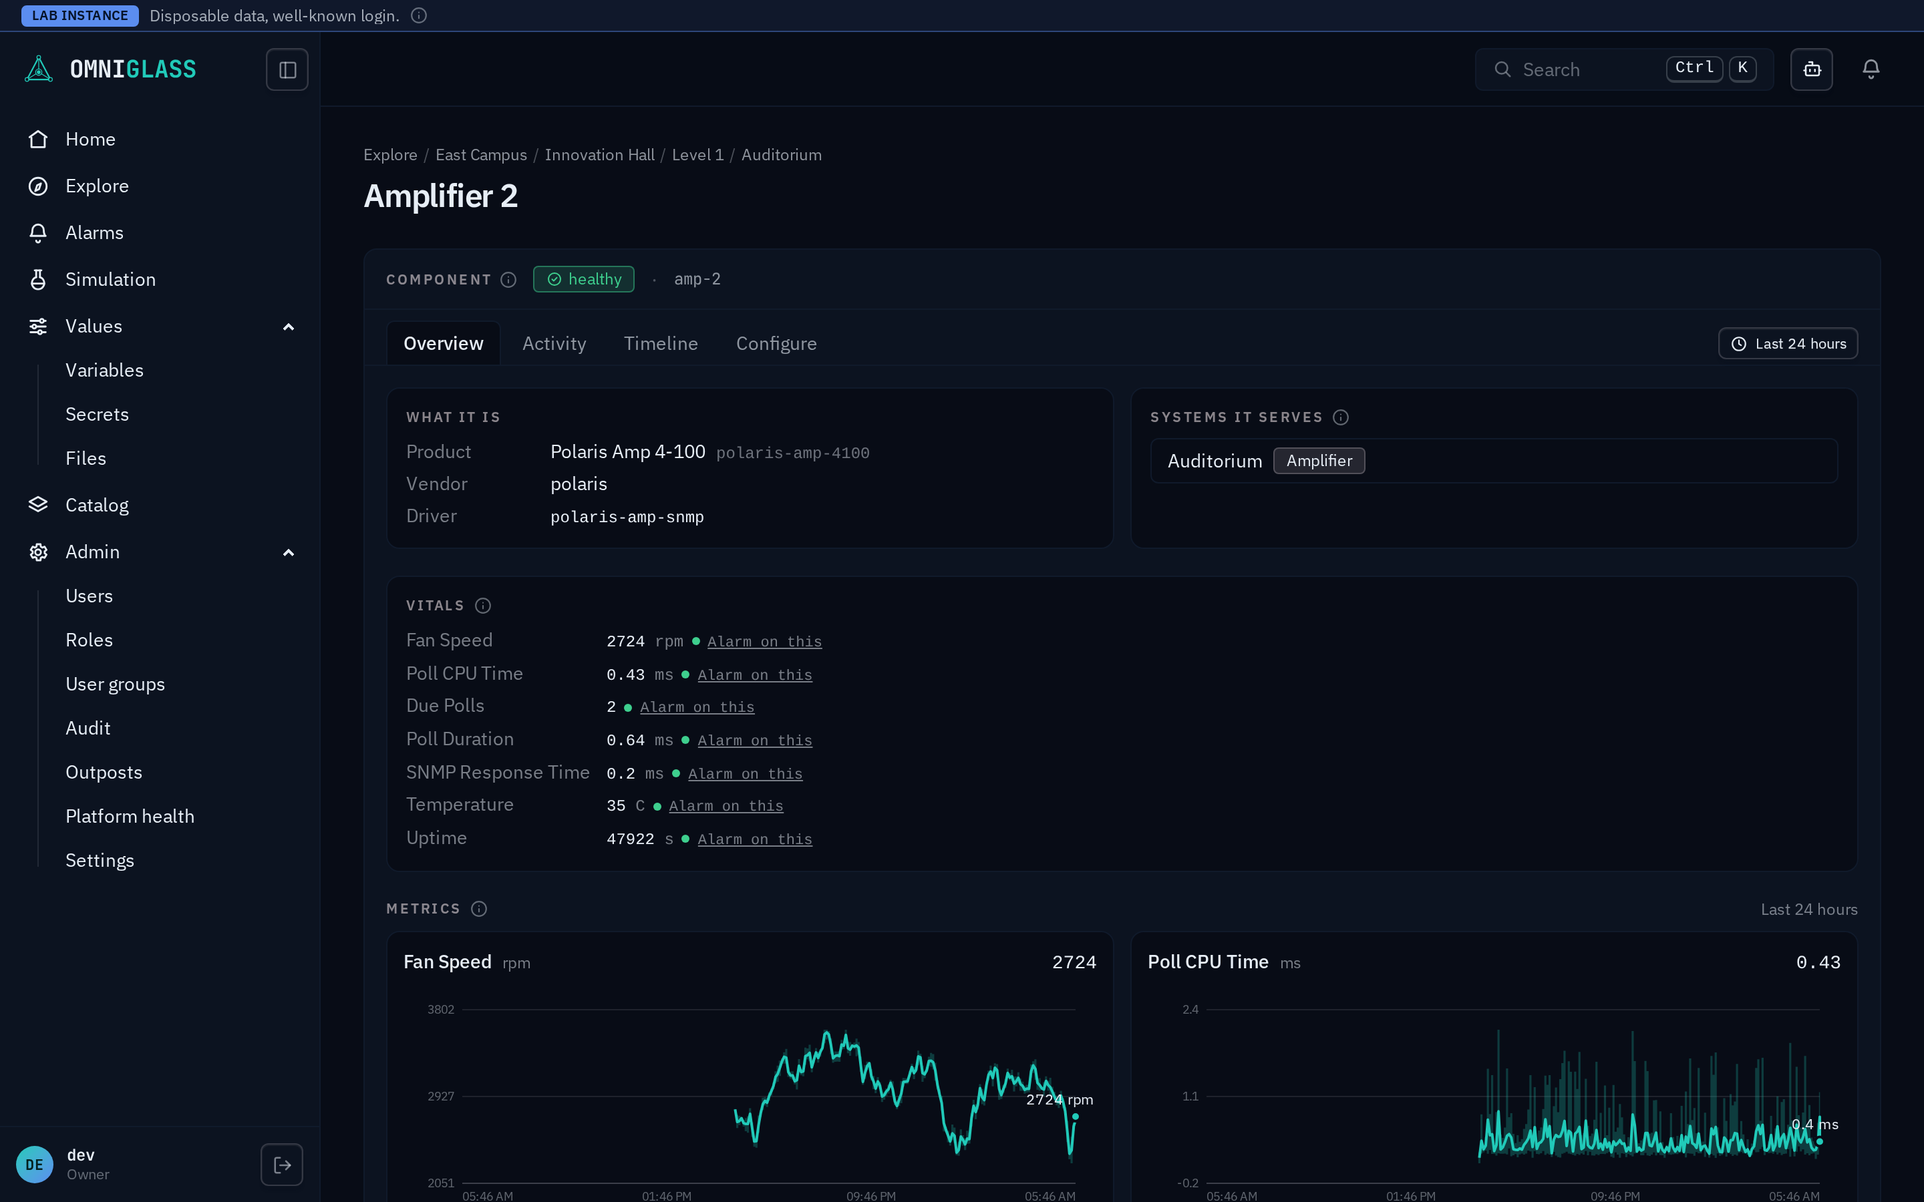
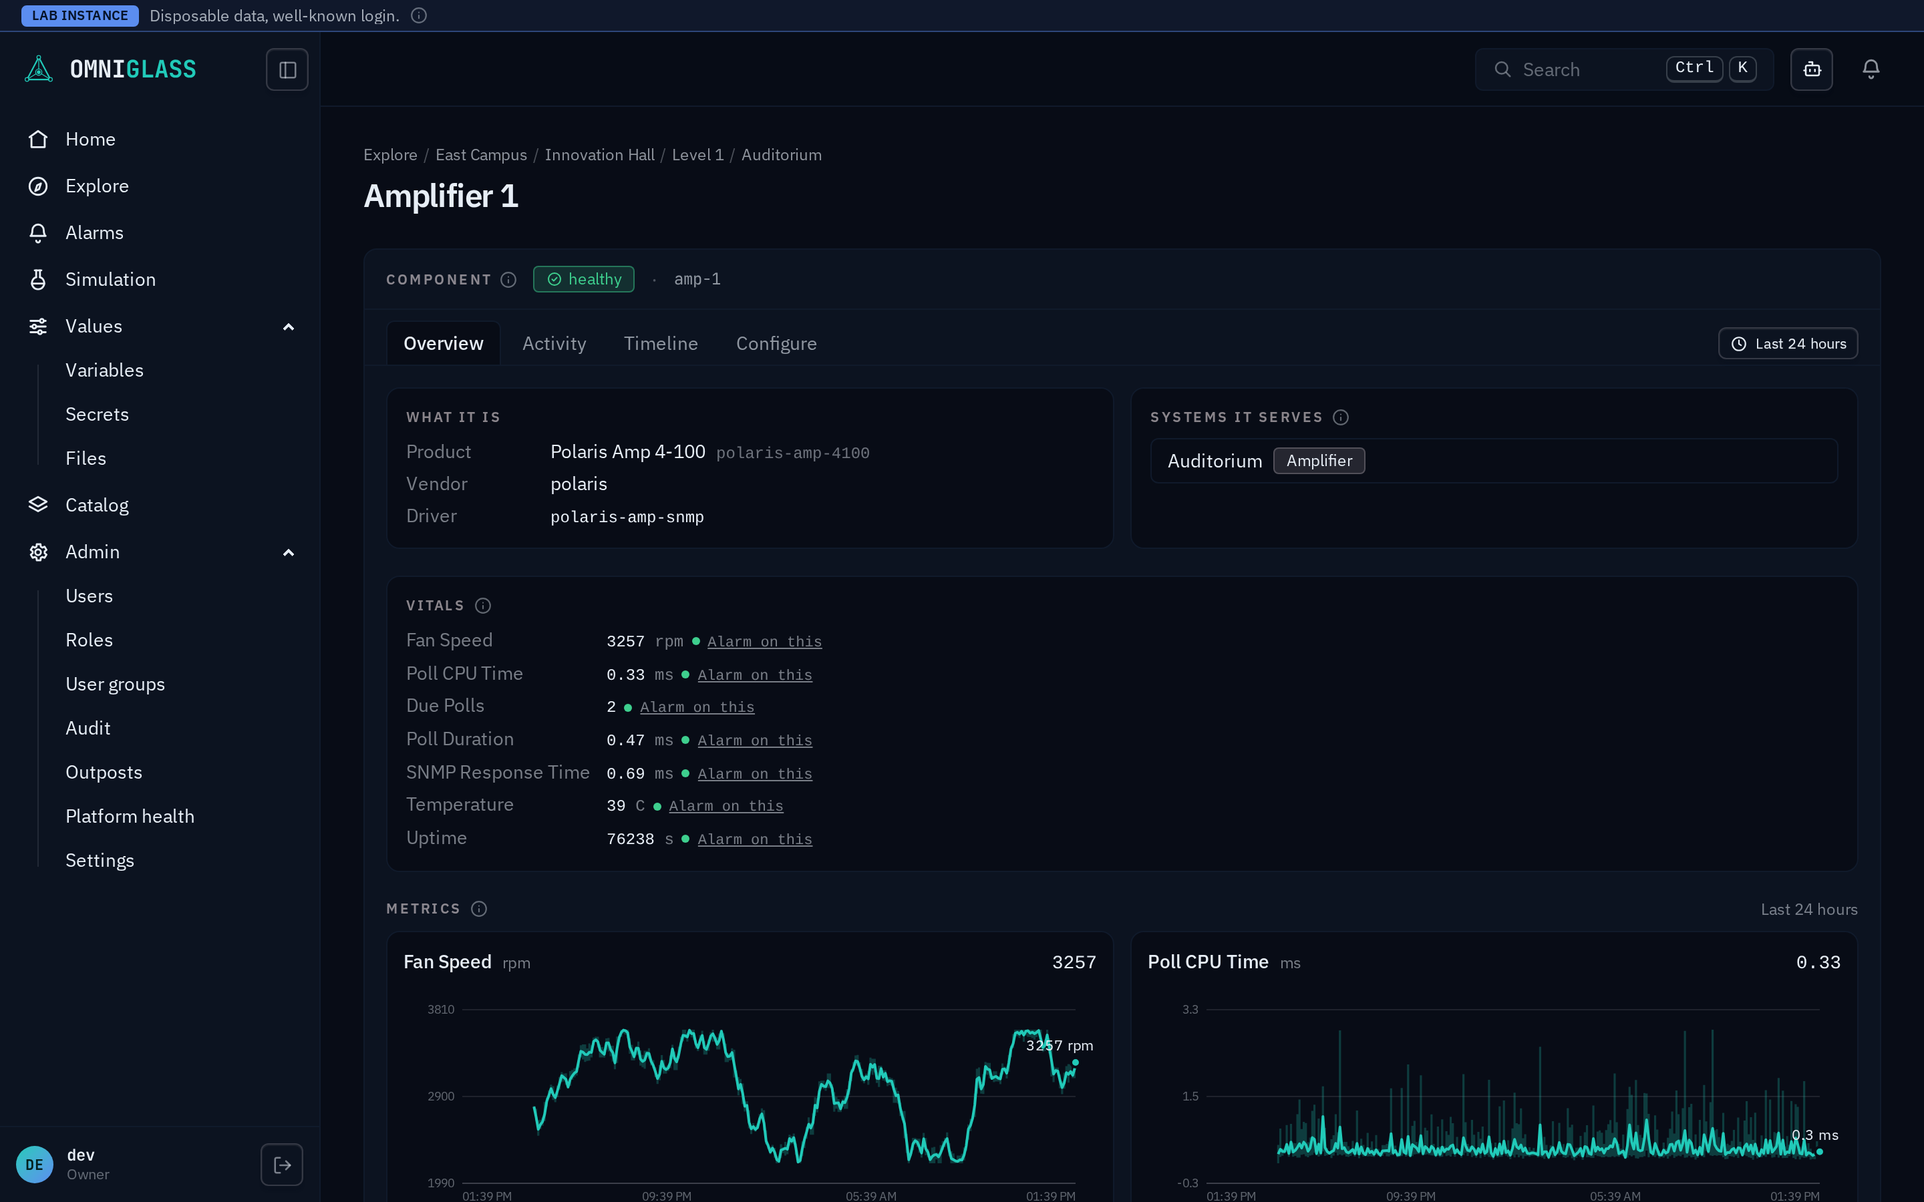
Move the detail-page breadcrumb into the one-row top bar

diff --git a/web/src/components/TopBar.tsx b/web/src/components/TopBar.tsx
@@ -1,7 +1,11 @@
 import type { JSX } from "solid-js";
 import { Show } from "solid-js";
 import { hostPlatform, shortcutModifier, shortcutHint } from "../lib/platform";
-import { Bot, Search } from "./icons";
+import { A } from "@solidjs/router";
+import { For } from "solid-js";
+import { collapseTrail, type Crumb } from "../lib/breadcrumb";
+import { Bot, MoreHorizontal, Search } from "./icons";
+import Popover from "./ui/Popover";
 import Button from "./Button";
 import InboxIndicator from "./InboxIndicator";
 
@@ -10,7 +14,42 @@ import InboxIndicator from "./InboxIndicator";
 // command-palette trigger (a global jump, distinct from a page's own filter),
 // omnibot's panel for a person who may run it (#1167), and the inbox bell with
 // its unread count.
-export default function TopBar(props: { section: string; title?: string | JSX.Element; hint?: string; onOpenPalette: () => void; onOpenOmnibot?: () => void }) {
+function TrailLink(props: { crumb: Crumb }) {
+  return (
+    <Show when={props.crumb.href} fallback={<span title={props.crumb.title ?? props.crumb.label}>{props.crumb.label}</span>}>
+      {(href) => (
+        <A href={href()} title={props.crumb.title ?? props.crumb.label} class="hover:text-base-content">
+          {props.crumb.label}
+        </A>
+      )}
+    </Show>
+  );
+}
+
+// A detail page's trail: every crumb a link, the middle ones folded into an
+// ellipsis menu when the path would crowd the title and the controls.
+function Trail(props: { crumbs: Crumb[] }) {
+  const parts = () => collapseTrail(props.crumbs);
+  const sep = () => <span class="flex-none text-base-content/30">/</span>;
+  return (
+    <nav aria-label="Breadcrumb" data-testid="breadcrumb" class="eyebrow flex min-w-0 flex-none items-baseline gap-1.5 text-base-content/70">
+      <For each={parts().head}>{(c) => <><TrailLink crumb={c} />{sep()}</>}</For>
+      <Show when={parts().hidden.length > 0}>
+        <Popover class="btn btn-quiet btn-xs btn-square self-center" aria-label="Show hidden path" title="Show hidden path" placement="bottom-start" contentClass="menu z-50 w-56 rounded-box border border-base-300 bg-base-100 p-1.5 shadow-2xl focus:outline-none" content={
+          <ul data-testid="trail-menu" class="flex flex-col">
+            <For each={parts().hidden}>{(c) => <li><TrailLink crumb={c} /></li>}</For>
+          </ul>
+        }>
+          <MoreHorizontal size={14} />
+        </Popover>
+        {sep()}
+      </Show>
+      <For each={parts().tail}>{(c) => <><TrailLink crumb={c} />{sep()}</>}</For>
+    </nav>
+  );
+}
+
+export default function TopBar(props: { section: string; title?: string | JSX.Element; hint?: string; trail?: Crumb[]; onOpenPalette: () => void; onOpenOmnibot?: () => void }) {
   // Label the palette shortcut with the host-native modifier (⌘ on mac, Ctrl else).
   const mod = shortcutModifier(hostPlatform());
   const hint = shortcutHint(hostPlatform(), "K");
@@ -18,8 +57,10 @@ export default function TopBar(props: { section: string; title?: string | JSX.El
     <header class="navbar sticky top-0 z-20 min-h-14 gap-3 border-b border-base-300 bg-base-100/80 px-6 backdrop-blur">
       <div data-testid="page-header" class="flex min-w-0 flex-col justify-center py-1">
         <div class="flex min-w-0 items-baseline gap-2 whitespace-nowrap">
-          <Show when={props.section}>
+          <Show when={props.trail?.length} fallback={<Show when={props.section}>
             <span class="eyebrow flex-none text-base-content/70">{props.section.replaceAll(" · ", " / ")} /</span>
+          </Show>}>
+            <Trail crumbs={props.trail!} />
           </Show>
           <h1 class="truncate text-lg font-semibold leading-tight tracking-tight">{props.title}</h1>
         </div>

diff --git a/web/src/components/Page.tsx b/web/src/components/Page.tsx
@@ -2,11 +2,11 @@ import type { JSX } from "solid-js";
 import { createEffect, createRenderEffect, onCleanup, Show } from "solid-js";
 import { namePage, setPageHeader } from "../lib/handover";
 import { navByPath } from "../lib/nav";
+import type { Crumb } from "../lib/breadcrumb";
 
 // Page scaffold: its title (string or element) and hint go to the top bar, the
-// page's one header row; an optional breadcrumb slot and right-aligned actions,
-// then the page body, stacked with the
-// density gap. Inventory pages built on TreeList drop the H1 (the top bar
+// page's one header row, with the trail above a detail page's title; optional
+// right-aligned actions, then the page body, stacked with the density gap. Inventory pages built on TreeList drop the H1 (the top bar
 // already labels the page) and pass their own header in children. A detail
 // page passes its entity's name or address, which omnibot is handed as the
 // page in place of the uuid its route holds (#2162).
@@ -21,7 +21,8 @@ export default function Page(props: {
   title?: string | JSX.Element;
   name?: string;
   subtitle?: string;
-  breadcrumb?: JSX.Element;
+  // A detail page's path (each crumb a link), read by the top bar before the h1.
+  trail?: Crumb[];
   actions?: JSX.Element;
   children: JSX.Element;
 }) {
@@ -31,17 +32,12 @@ export default function Page(props: {
   createEffect(() => namePage(props.name));
   onCleanup(() => namePage(undefined));
   // The top bar is the page header (#2575): the title and hint go there.
-  createRenderEffect(() => setPageHeader({ title: title(), hint: subtitle() }));
+  createRenderEffect(() => setPageHeader({ title: title(), hint: subtitle(), trail: props.trail }));
   onCleanup(() => setPageHeader(undefined));
   return (
     <section class="og-stack flex flex-col" classList={{ "h-full min-h-0": props.fill }}>
-      <Show when={props.breadcrumb || props.actions}>
-        <div class="flex flex-wrap items-center justify-between gap-4">
-          <div class="min-w-0 min-h-[18px]">{props.breadcrumb}</div>
-          <Show when={props.actions}>
-            <div class="flex flex-none items-center gap-2">{props.actions}</div>
-          </Show>
-        </div>
+      <Show when={props.actions}>
+        <div class="flex flex-wrap items-center justify-end gap-2">{props.actions}</div>
       </Show>
       {props.children}
     </section>

diff --git a/web/src/components/TopBar.test.tsx b/web/src/components/TopBar.test.tsx
@@ -1,5 +1,5 @@
 import { describe, it, expect, afterEach, beforeEach, vi } from "vitest";
-import { render, screen, fireEvent, cleanup } from "@solidjs/testing-library";
+import { render, screen, fireEvent, cleanup, within } from "@solidjs/testing-library";
 import { Router, Route } from "@solidjs/router";
 import { QueryClient, QueryClientProvider } from "@tanstack/solid-query";
 import TopBar from "./TopBar";
@@ -38,5 +38,34 @@ describe("the top bar's omnibot button", () => {
   it("is not there for someone who may not run omnibot", () => {
     bar();
     expect(screen.queryByRole("button", { name: "Ask omnibot" })).toBeNull();
+  });
+});
+
+describe("TopBar trail (#2575)", () => {
+  const crumbs = (n: number) => Array.from({ length: n }, (_, i) => ({ key: `c${i}`, label: `Place number ${i}`, href: `/locations/c${i}` }));
+  const mount = (n: number) =>
+    render(() => (
+      <QueryClientProvider client={new QueryClient({ defaultOptions: { queries: { retry: false } } })}>
+        <Router>
+          <Route path="*" component={() => <TopBar section="" title="Display 1" trail={crumbs(n)} onOpenPalette={() => {}} />} />
+        </Router>
+      </QueryClientProvider>
+    ));
+
+  it("shows a short trail whole, each crumb a link, before the one h1", () => {
+    mount(2);
+    const trail = screen.getByTestId("breadcrumb");
+    expect(within(trail).getAllByRole("link").map((a) => a.textContent)).toEqual(["Place number 0", "Place number 1"]);
+    expect(screen.queryByRole("button", { name: "Show hidden path" })).toBeNull();
+    expect(screen.getByRole("heading", { level: 1 }).textContent).toBe("Display 1");
+  });
+
+  it("collapses the middle of a long trail to an ellipsis menu that lists them as links", async () => {
+    mount(6);
+    const trail = screen.getByTestId("breadcrumb");
+    expect(within(trail).getAllByRole("link").map((a) => a.textContent)).toEqual(["Place number 0", "Place number 5"]);
+    fireEvent.click(screen.getByRole("button", { name: "Show hidden path" }));
+    const menu = await screen.findByTestId("trail-menu");
+    expect(within(menu).getAllByRole("link").map((a) => a.textContent)).toEqual(["Place number 1", "Place number 2", "Place number 3", "Place number 4"]);
   });
 });

diff --git a/web/src/pages/ComponentLeaf.test.tsx b/web/src/pages/ComponentLeaf.test.tsx
@@ -3,6 +3,7 @@ import { cleanup, fireEvent, render, screen, waitFor, within } from "@solidjs/te
 import { Router, Route } from "@solidjs/router";
 import { QueryClient, QueryClientProvider, focusManager } from "@tanstack/solid-query";
 import Components from "./Components";
+import { withTopBar } from "../lib/testheader";
 import { FLEET_VIEW_KEY, type FleetView } from "../lib/fleet";
 import { COMPONENTS_KEY, type Component } from "../lib/components";
 import { componentSystemsKey } from "../lib/members";
@@ -118,7 +119,7 @@ function mount(path = `/web/components/${uuidFor("cf-c-bar")}`, memberships?: un
   return render(() => (
     <QueryClientProvider client={qc}>
       <Router base="/web">
-        <Route path="/components/:id" component={Components} />
+        <Route path="/components/:id" component={withTopBar(Components)} />
         <Route path="/explore" component={() => <div data-testid="fleet-page" />} />
       </Router>
     </QueryClientProvider>
@@ -148,6 +149,21 @@ describe("the component leaf", () => {
     expect(within(trail).queryByText("Boardroom A")).toBeNull();
     expect(within(trail).queryByText("Video Bar 1")).toBeNull();
     expect(pageHeader()?.title).toBe("Video Bar 1");
+  });
+
+  // The one-row header (#2575): the path rides the top bar before the entity's
+  // label, the page body spends no row on it.
+  it("renders the location trail inside the top bar, the label as the one h1, no breadcrumb row in the body", () => {
+    mount();
+    const bar = document.querySelector("header")!;
+    const trail = within(bar).getByTestId("breadcrumb");
+    expect(within(trail).getByRole("link", { name: "Headquarters" })).toBeTruthy();
+    const h1s = screen.getAllByRole("heading", { level: 1 });
+    expect(h1s).toHaveLength(1);
+    expect(h1s[0].textContent).toBe("Video Bar 1");
+    expect(bar.contains(h1s[0])).toBe(true);
+    expect(screen.getAllByTestId("breadcrumb")).toHaveLength(1);
+    expect(document.querySelector("section")!.querySelector('[data-testid="breadcrumb"]')).toBeNull();
   });
 
   it("links Explore back to this component's row in the outline", async () => {

diff --git a/web/src/pages/LocationZoom.test.tsx b/web/src/pages/LocationZoom.test.tsx
@@ -3,6 +3,7 @@ import { render, screen, fireEvent, within, cleanup, waitFor } from "@solidjs/te
 import { A, Router, Route } from "@solidjs/router";
 import { QueryClient, QueryClientProvider } from "@tanstack/solid-query";
 import Locations from "./Locations";
+import { withTopBar } from "../lib/testheader";
 import { FLEET_VIEW_KEY, type FleetView } from "../lib/fleet";
 import { locationHealthKey, systemHealthKey, type FleetHealth } from "../lib/health";
 import { LOCATION_TYPES_KEY, type LocationType } from "../lib/location_types";
@@ -157,7 +158,7 @@ function mount(path = `/web/locations/${uuidFor("lz-hq")}`, lateTypes = false) {
   const r = render(() => (
     <QueryClientProvider client={qc}>
       <Router base="/web">
-        <Route path="/locations/:id" component={Locations} />
+        <Route path="/locations/:id" component={withTopBar(Locations)} />
         <Route path="/explore" component={() => <div data-testid="fleet-page" />} />
         <Route path="/start" component={() => <A data-testid="configure-link" href={`/locations/${uuidFor("lz-room")}?tab=configure`}>Configure location</A>} />
         <Route path="/systems/:id" component={() => <div data-testid="system-page" />} />
@@ -447,7 +448,7 @@ describe("ambiguous name addresses (#853)", () => {
     render(() => (
       <QueryClientProvider client={qc}>
         <Router base="/web">
-          <Route path="/locations/:id" component={Locations} />
+          <Route path="/locations/:id" component={withTopBar(Locations)} />
           <Route path="/explore" component={() => <div data-testid="fleet-page" />} />
         </Router>
       </QueryClientProvider>

diff --git a/web/src/lib/breadcrumb.test.ts b/web/src/lib/breadcrumb.test.ts
@@ -1,5 +1,5 @@
 import { describe, expect, it } from "vitest";
-import { crumbLayout } from "./breadcrumb";
+import { collapseTrail, crumbLayout, type Crumb } from "./breadcrumb";
 
 // The ellipsis rule as arithmetic: the last two crumbs never shrink, every
 // earlier one may ellipsise down to a 26px stub. Pure, so the rule is pinned
@@ -33,5 +33,18 @@ describe("crumbLayout", () => {
 
   it("zero crumbs is an empty layout, not a crash", () => {
     expect(crumbLayout(0)).toEqual([]);
+  });
+});
+
+describe("collapseTrail", () => {
+  const c = (label: string): Crumb => ({ key: label, label });
+  it("keeps a trail that fits whole", () => {
+    expect(collapseTrail([c("HQ"), c("Floor 2")]).hidden).toEqual([]);
+  });
+  it("folds the middle of a long trail, keeping the first and the last", () => {
+    const r = collapseTrail([c("Explore"), c("Headquarters campus"), c("Floor 2 west wing"), c("Room 201 huddle"), c("Rack")]);
+    expect(r.head.map((x) => x.label)).toEqual(["Explore"]);
+    expect(r.hidden.map((x) => x.label)).toEqual(["Headquarters campus", "Floor 2 west wing", "Room 201 huddle"]);
+    expect(r.tail.map((x) => x.label)).toEqual(["Rack"]);
   });
 });

diff --git a/web/src/pages/Subscriptions.test.tsx b/web/src/pages/Subscriptions.test.tsx
@@ -3,6 +3,7 @@ import { render, screen, waitFor, fireEvent, within } from "@solidjs/testing-lib
 import { Router, Route } from "@solidjs/router";
 import { QueryClient, QueryClientProvider } from "@tanstack/solid-query";
 import Subscriptions from "./Subscriptions";
+import { pageHeader } from "../lib/handover";
 import { ME_KEY, type Me } from "../lib/auth";
 import { SUBSCRIPTIONS_KEY, type RuleMatch, type Subscription } from "../lib/subscriptions";
 import { severityLevelsKey } from "../lib/severity";
@@ -239,10 +240,10 @@ describe("Subscriptions", () => {
     expect(await screen.findAllByTestId("sub-row")).toHaveLength(1);
   });
 
-  it("leads back to the profile from its breadcrumb", async () => {
+  it("hands the top bar a trail leading back to the profile", async () => {
     stubFetch(refuse);
     mount({ rules: [] });
-    fireEvent.click(await screen.findByRole("link", { name: "Profile" }));
-    expect(await screen.findByTestId("profile-page")).toBeTruthy();
+    await screen.findByTestId("subs-denied").catch(() => null);
+    expect(pageHeader()?.trail).toEqual([{ key: "profile", label: "Profile", href: "/profile" }]);
   });
 });

diff --git a/web/src/pages/SystemZoom.test.tsx b/web/src/pages/SystemZoom.test.tsx
@@ -3,6 +3,7 @@ import { cleanup, fireEvent, render, screen, waitFor, within } from "@solidjs/te
 import { Router, Route, useLocation } from "@solidjs/router";
 import { QueryClient, QueryClientProvider, focusManager } from "@tanstack/solid-query";
 import Systems from "./Systems";
+import { withTopBar } from "../lib/testheader";
 import { FLEET_VIEW_KEY, type FleetView } from "../lib/fleet";
 import { SYSTEM_HEALTH_PREFIX, systemHealthKey, type FleetHealth } from "../lib/health";
 import { systemSlotsKey } from "../lib/system_slots";
@@ -148,7 +149,7 @@ function mount(path = `/web/systems/${uuidFor("szp-sys")}`, healthOverride: Flee
 
     <QueryClientProvider client={qc}>
       <Router base="/web">
-        <Route path="/systems/:id" component={Systems} />
+        <Route path="/systems/:id" component={withTopBar(Systems)} />
         <Route path="/locations/:id" component={() => <div data-testid="location-page" />} />
         <Route path="/explore" component={() => <div data-testid="fleet-page" />} />
         <Route

diff --git a/web/src/lib/breadcrumb.ts b/web/src/lib/breadcrumb.ts
@@ -23,3 +23,15 @@ export function crumbLayout(count: number): { flex: string; minWidth: string }[]
     i >= count - 2 ? { flex: "none", minWidth: "auto" } : { flex: "0 1 auto", minWidth: "26px" },
   );
 }
+
+// collapseTrail decides which crumbs of the top bar's trail stay visible beside
+// the title and the controls (#2575): a trail whose labels fit the budget shows
+// whole; a longer one keeps the first crumb (where Back up lands) and the last
+// (the parent) and folds every crumb between into an ellipsis menu. Pure, so
+// the rule is pinned here and the bar only renders it.
+export const TRAIL_BUDGET = 72;
+export function collapseTrail(crumbs: Crumb[], budget = TRAIL_BUDGET): { head: Crumb[]; hidden: Crumb[]; tail: Crumb[] } {
+  const chars = crumbs.reduce((n, c) => n + c.label.length + 3, 0);
+  if (crumbs.length < 3 || chars <= budget) return { head: crumbs, hidden: [], tail: [] };
+  return { head: crumbs.slice(0, 1), hidden: crumbs.slice(1, -1), tail: crumbs.slice(-1) };
+}

diff --git a/web/src/pages/LocationZoom.tsx b/web/src/pages/LocationZoom.tsx
@@ -3,7 +3,6 @@ import { useLocation, useNavigate, useParams } from "@solidjs/router";
 import { useQuery } from "@tanstack/solid-query";
 import Page from "../components/Page";
 import TemplateNotice from "../components/TemplateNotice";
-import Breadcrumb from "../components/Breadcrumb";
 import DetailGate from "../components/DetailGate";
 import LocationDetail from "../components/LocationDetail";
 import BladeStack from "../components/BladeStack";
@@ -81,7 +80,7 @@ export default function LocationZoom() {
 
   return (
     <BladesContext.Provider value={blades}>
-      <Page title={location() ? entityLabel(location()!) : "Location"} name={location()?.name} breadcrumb={<Breadcrumb crumbs={crumbs()} />}>
+      <Page title={location() ? entityLabel(location()!) : "Location"} name={location()?.name} trail={crumbs()}>
         {/* A create from a template lands here with ?from= (#1329). */}
         <TemplateNotice />
         <DetailGate

diff --git a/web/src/pages/ComponentLeaf.tsx b/web/src/pages/ComponentLeaf.tsx
@@ -2,7 +2,6 @@ import { Show, createEffect, createMemo } from "solid-js";
 import { useLocation, useNavigate, useParams } from "@solidjs/router";
 import { useQuery } from "@tanstack/solid-query";
 import Page from "../components/Page";
-import Breadcrumb from "../components/Breadcrumb";
 import BladeStack from "../components/BladeStack";
 import DetailGate from "../components/DetailGate";
 import TemplateNotice from "../components/TemplateNotice";
@@ -78,7 +77,7 @@ export default function ComponentLeaf() {
 
   return (
     <BladesContext.Provider value={blades}>
-    <Page title={component() ? entityLabel(component()!) : "Component"} name={component()?.name} breadcrumb={<Breadcrumb crumbs={crumbs()} />}>
+    <Page title={component() ? entityLabel(component()!) : "Component"} name={component()?.name} trail={crumbs()}>
       {/* A create from a template lands here with ?from= (#1329). */}
       <TemplateNotice />
       <DetailGate

diff --git a/web/src/pages/Subscriptions.tsx b/web/src/pages/Subscriptions.tsx
@@ -1,6 +1,5 @@
 import { For, Show, createMemo, createSignal, type JSX } from "solid-js";
 import Page from "../components/Page";
-import Breadcrumb from "../components/Breadcrumb";
 import Button from "../components/Button";
 import Drawer from "../components/Drawer";
 import Eyebrow from "../components/Eyebrow";
@@ -105,7 +104,7 @@ export default function Subscriptions(): JSX.Element {
   return (
     <Page
       title={title}
-      breadcrumb={<Breadcrumb crumbs={[{ key: "profile", label: "Profile", href: "/profile" }, { key: "subscriptions", label: "Alarm subscriptions" }]} />}
+      trail={[{ key: "profile", label: "Profile", href: "/profile" }]}
       actions={
         <Show when={canSubscribe() && rows().length > 0}>
           <Button intent="action" icon={Plus} disabled={atCap()} title={atCap() ? `You own the most subscriptions a person may (${SUBSCRIPTION_CAP})` : undefined} onClick={() => setEditing("new")}>
